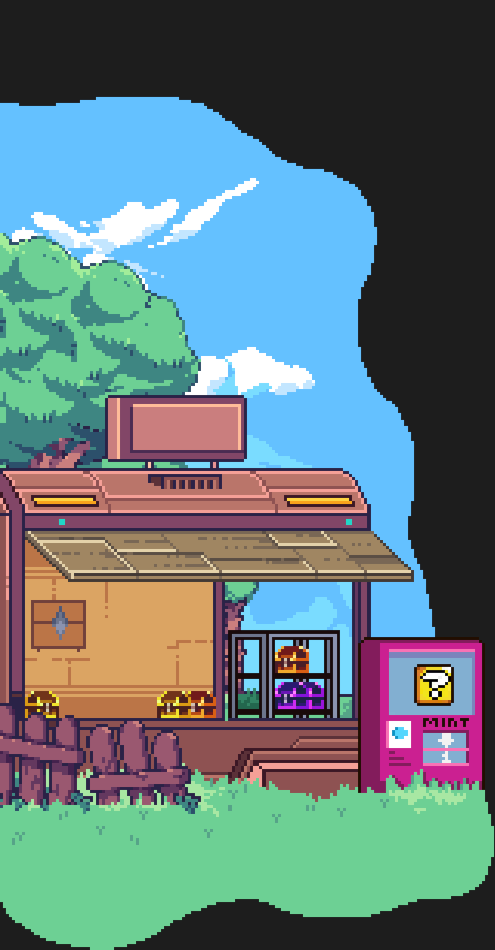
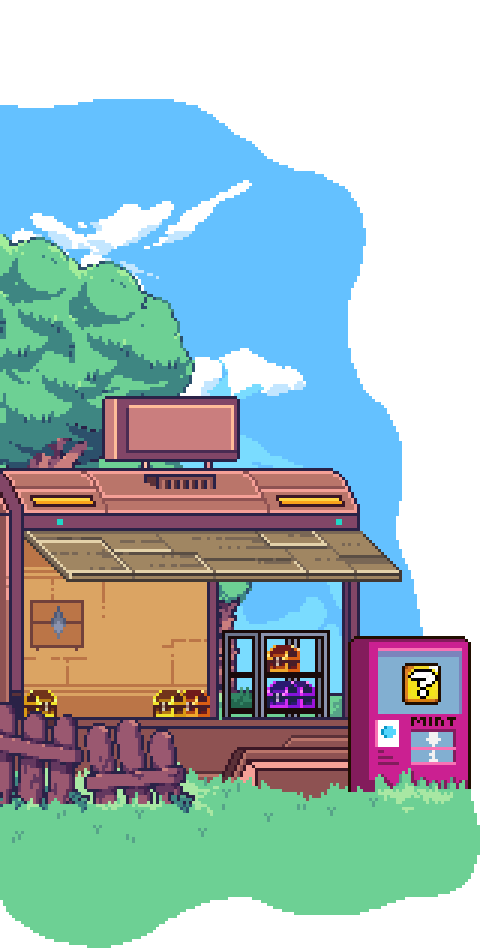
new elements

diff --git a/stylesheet.css b/stylesheet.css
@@ -28,7 +28,7 @@ body
 
 img
 {
-    user-drag: none;
+    /*user-drag: none;*/
     -webkit-user-drag: none;
     user-select: none;
     -moz-user-select: none;
@@ -75,16 +75,16 @@ h2
 #llama-pink
 {
     position: absolute;
-    left: 84.5vw;
-    top: 64vh;
+    left: 85vw;
+    top: 68vh;
 
-    height: 28%;
+    height: 23%;
 }
 
 #llamma-left
 {
     position: absolute;
-    top: 62.6vh;
+    top: 62.65vh;
     left: 2.8vw;
     height: 13%;
 }
@@ -92,13 +92,13 @@ h2
 #text-airdrop
 {
     position: absolute;
-    top: 43.55vh;
-    left: 7.75vw;
+    top: 43.75vh;
+    left: 7.55vw;
     /*
     top: 35vh;
     left: 9.5125vw;
     */
-    font-size: 2.25vh;
+    font-size: 2.15vh;
     -webkit-user-select: none; /* Safari */
     -ms-user-select: none; /* IE 10 and IE 11 */
     user-select: none; /* Standard syntax */
@@ -165,20 +165,45 @@ h2
     height: 100%;
 }
 
-.page-header-icon-container h1
+#button-connect
 {
-    text-decoration: none;
-
-    background-image: url( "images/button-connect.png" );
-    background-size: 100% 100%;
-    padding-left: 1vw;
-    padding-right: 1vw;
-    padding-top: .7vh;
+    padding-left: 0.2vw;
+    padding-right: 0.5vw;
+    padding-top: .5vh;
     padding-bottom: .9vh;
     margin-left: 0.3vw;
+}
 
-    font-size: 1.65vh;
-    cursor: pointer;
+#button-connect a
+{
+    font-size: 25px;
+    color:white;
+    background-color:#ca7e7e;
+    display:block;
+    position:relative;
+    padding:7px 30px;
+    
+    -webkit-tap-highlight-color: rgba(0, 0, 0, 0);
+    text-shadow: 0px 1px 0px #000;
+    filter: dropshadow(color=#000, offx=0px, offy=1px);
+    
+    -webkit-box-shadow:inset 0 1px 0 #FFE5C4, 0 10px 0 #A45959;
+    -moz-box-shadow:inset 0 1px 0 #FFE5C4, 0 10px 0 #A45959;
+    box-shadow:inset 0 1px 0 #FFE5C4, 0 5px 0 #A45959;
+    
+    -webkit-border-radius: 100px;
+    -moz-border-radius: 100px;
+    border-radius: 100px;
+}
+  
+#button-connect a:active
+{
+    top:5px;
+    background-color:#a45c5c;
+
+    -webkit-box-shadow:inset 0 1px 0 #FFE5C4, inset 0 -3px 0 #915100;
+    -moz-box-shadow:inset 0 1px 0 #FFE5C4, inset 0 -3pxpx 0 #915100;
+    box-shadow:inset 0 1px 0 #FFE5C4, inset 0 -3px 0 #915100;
 }
 
 .page-main-container
@@ -245,25 +270,66 @@ h2
 
 .page-main-nft-container
 {
-    padding-top: 2vh;
+    padding-top: 3vh;
     display: flex;
 }
 
-.page-main-container > div + div + h1
+.application-form
 {
-    margin-top: 3.35vh;
-
-    background-image: url( "images/button-application.png" );
-    background-size: 100% 100%;
-
-    padding-top: 0.5rem;
-    padding-bottom: 2rem;
-    padding-left: 3rem;
-    padding-right: 3rem;
-
-    -webkit-user-select: none; /* Safari */
-    -ms-user-select: none; /* IE 10 and IE 11 */
-    user-select: none; /* Standard syntax */
+    position:relative;
+    display:inline-block;
+    margin:70px;
+}
+  
+.application-form a
+{
+    font-family: fredoka-one;
+    color:white;
+    font-size:60px;
+    text-align: center;
+    text-decoration:none;
+    background-color:#3E8682;
+    display:block;
+    position:relative;
+    padding:5px 40px;
+    
+    -webkit-tap-highlight-color: rgba(0, 0, 0, 0);
+    text-shadow: 0px 1px 0px #000;
+    filter: dropshadow(color=#000, offx=0px, offy=1px);
+    
+    -webkit-box-shadow:inset 0 3px 0 #6DD094, 0 10px 0 #6DD094;
+    -moz-box-shadow:inset 0 3px 0 #6DD094, 0 10px 0 #6DD094;
+    box-shadow:inset 0 3px 0 #6DD094, 0 10px 0 #6DD094;
+    
+    -webkit-border-radius: 5px;
+    -moz-border-radius: 5px;
+    border-radius: 5px;
+}
+  
+.application-form a:active
+{
+    top:10px;
+    background-color:#2C546C;
+    
+    -webkit-box-shadow:inset 0 3px 0 #6DD094, inset 0 -3px 0 #6DD094;
+    -moz-box-shadow:inset 0 3px 0 #6DD094, inset 0 -3pxpx 0 #6DD094;
+    box-shadow:inset 0 3px 0 #6DD094, inset 0 -3px 0 #6DD094;
+}
+  
+.application-form:after
+{
+    content:"";
+    height:100%;
+    width:100%;
+    padding:10px;
+    position: absolute;
+    bottom:-20px;
+    left:-10px;
+    z-index:-1;
+    background-color:#2a2247;
+    -webkit-border-radius: 5px;
+    -moz-border-radius: 5px;
+    border-radius: 5px;
 }
 
 .page-mint-main-container

diff --git a/index.html b/index.html
@@ -1,7 +1,8 @@
 <!DOCTYPE html>
-<html lang="en">
+<html lang="en">    
     <head>
         <title>LLAMAPIX</title>
+        <link rel="icon" type="image/x-icon" href="images/L_name.png">
         <link rel="stylesheet" href="stylesheet.css"/>
         <meta name="viewport" content="width=device-width, initial-scale=1.0, maximum-scale=1.0, user-scalable=0">
         <script defer src="home.js"></script>
@@ -17,9 +18,11 @@
                 <a hidden href="mint.html">MINT</a>
             </div>
             <div class="page-header-icon-container">
-                <a href="https://twitter.com/LlamaPixNFT" target="_blank"><img src="images/icon-twitter.png"/></a>
+                <a href="#"><img src="images/icon-twitter.png"/></a>
                 <a href="#"><img src="images/icon-opensea.png"/></a>
-                <h1 id="button-connect">CONNECT</h1>
+                <div id="button-connect">
+                    <h1><a href="#">Connect</a></h1>
+                </div>
             </div>
         </div>
         <div class="page-main-container">
@@ -31,8 +34,9 @@
             <div class="page-main-nft-container">
                 <img class="page-nft" src="images/llama-gold.gif"></img>
             </div>
-            <h1><a href="https://docs.google.com/forms/d/1B9L1-AkQ6Qrr0A5YQL1xhAGjSKG9NdO9EmSqvNV2C6I/edit?ts=63ffeb3b" target="_blank">Application Form</a></h1>
-         </div>
+            <div class="application-form">
+                <h1><a href="#">Application Form</a></h1>
+            </div>
         </div>
         <img class="page-background-left" src="images/background-left.png"></img>
         <img class="page-background-right" src="images/background-right.png"></img>
